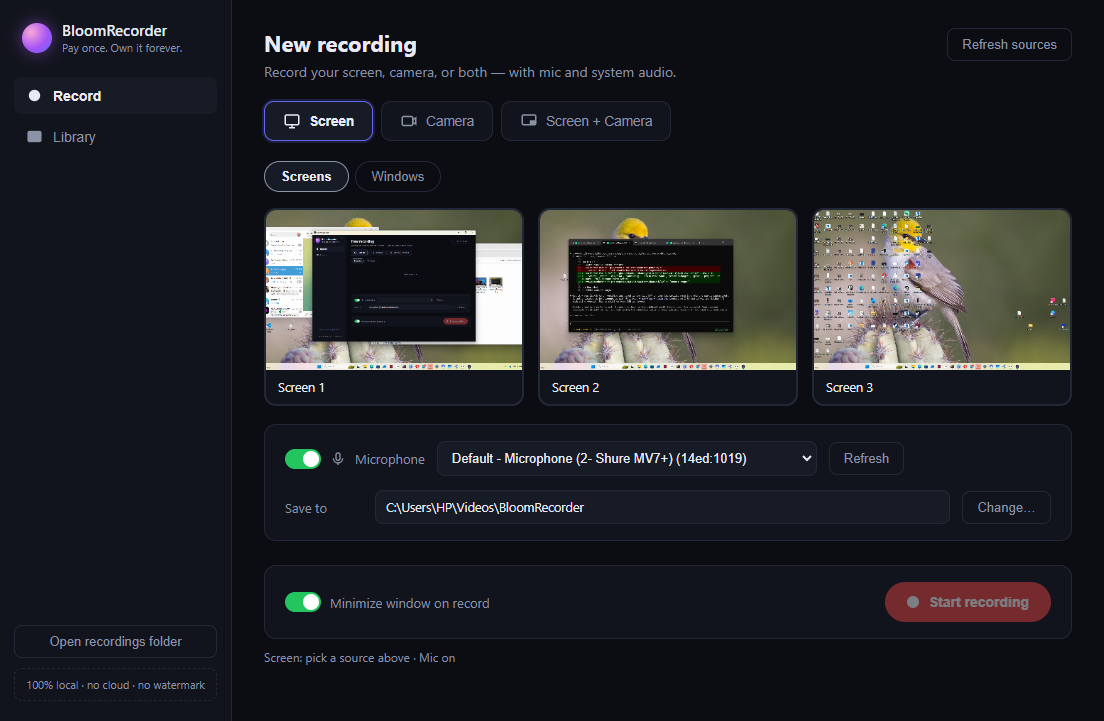
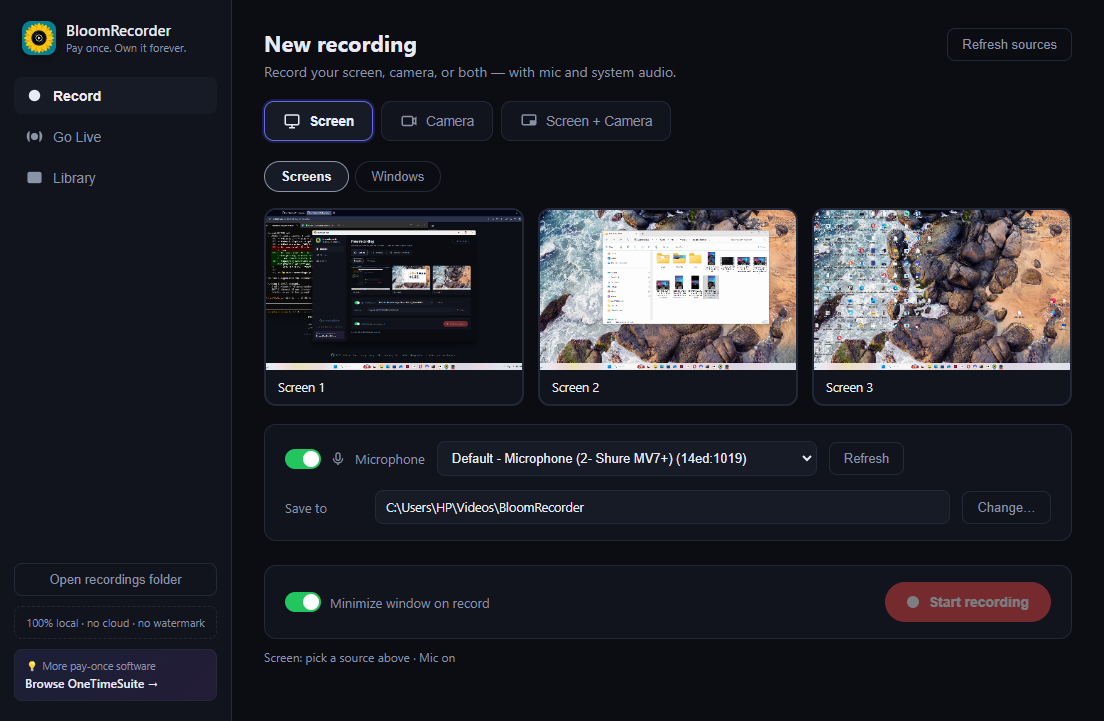
Update README with the full current feature set + fresh screenshot
Features section was still describing the pre-session baseline (no
Go Live, no local AI editing tools). Documented everything shipped
this session: pause/resume, Go Live streaming, Build Short letterbox
toggle, local Whisper-powered Captions/Make Reels/Transcript Editor,
Remove Silences, library rename/sort/filter/multi-select. Refreshed
docs/screenshot.png to show the current UI with the real sunflower
logo and the OneTimeSuite footer link instead of the old placeholder
branding.

diff --git a/README.md b/README.md
@@ -12,17 +12,32 @@
 
 ## ✨ Features
 
+**Recording**
 - **Screen · Camera · Both** — record your screen, your webcam, or both at once
 - **Split or picture-in-picture** — with both selected, save two separate files (each with audio) or one combined video with the camera overlaid
 - **Source picker with live previews** — record any screen or individual window, thumbnails included
 - **Device selection** — choose exactly which camera and which microphone to record
 - **System + mic audio** — mixed cleanly, and carried into *every* output file
 - **Choose your output folder** — save recordings wherever you want; the choice sticks
-- **Floating recording pill** — tiny always-on-top timer with a stop button, so your main window stays out of the shot
+- **Floating recording pill** — tiny always-on-top timer with pause/resume and stop, so your main window stays out of the shot
+- **Go Live** — stream your screen + camera straight to Twitch or any custom RTMP endpoint while it records a local copy at the same time
+
+**Library**
 - **Local library** — every recording auto-saves to `Videos/BloomRecorder` with generated thumbnails, plays right in the app
+- **Sort & filter** — by date/name/size, or filter to just captioned/reel clips
+- **Rename, delete, multi-select** — click or drag-select across the grid, batch-delete in one go
 - **MP4 export** — H.264 + faststart, plays everywhere, with live progress
 - **Optimized GIF export** — proper two-pass palette generation (palettegen/paletteuse), not the muddy single-pass junk
 - **Trim** — set start/end seconds before exporting, no separate editor needed
+- **Build Short (9:16)** — reframe any recording (or a paired screen+camera split) to vertical for Reels/Shorts/TikTok, with a "show full screen" letterbox toggle so you don't lose the edges of a screen capture to a crop
+
+**Local AI editing — all fully offline, no cloud, no API keys**
+- **Captions** — transcribes locally (quantized Whisper via ONNX), burns in captions with 4 style templates, line-by-line or word-by-word timing, an adjustable size slider, and literal drag-to-position placement on the video preview
+- **Make Reels** — local heuristic scans the transcript for hook-word density, emphasis, pauses, and pace to find and cut standout vertical clips automatically (not a real virality predictor — a practical local heuristic)
+- **Remove Silences** — detects quiet gaps (`ffmpeg silencedetect`), lets you review/trim/undo each one before a single-pass cut
+- **Edit Transcript** — the Descript move: transcribe, then delete words or pauses directly from the text to cut the video, with shift-click ranges and full undo
+
+**And**
 - **100% local** — zero telemetry, zero network calls, zero accounts
 
 ## 🚀 Quick start
@@ -71,7 +86,8 @@ Loom is great for team clouds. If you just want to *record your screen and own t
 - **Electron** — main + preload + renderer, context isolation on
 - **desktopCapturer + getDisplayMedia** — native screen/window capture with a custom picker
 - **MediaRecorder (VP9/Opus)** — in-renderer recording, mic mixed via Web Audio `AudioContext`
-- **ffmpeg-static** — bundled ffmpeg for MP4 (libx264), two-pass GIF, trims, thumbnails, and duration probing
+- **ffmpeg-static** — bundled ffmpeg for MP4 (libx264), two-pass GIF, trims, thumbnails, duration/resolution probing, silence detection, and caption/subtitle burn-in (real `.ass` documents, not `force_style` — see commit history if you're curious why)
+- **@huggingface/transformers (ONNX runtime, Node)** — quantized Whisper running fully locally in the main process for captions, Make Reels, and the Transcript Editor; no API keys, no network calls
 - Plain HTML/CSS/JS renderer — no framework, boots instantly
 
 ## 📁 Where recordings go